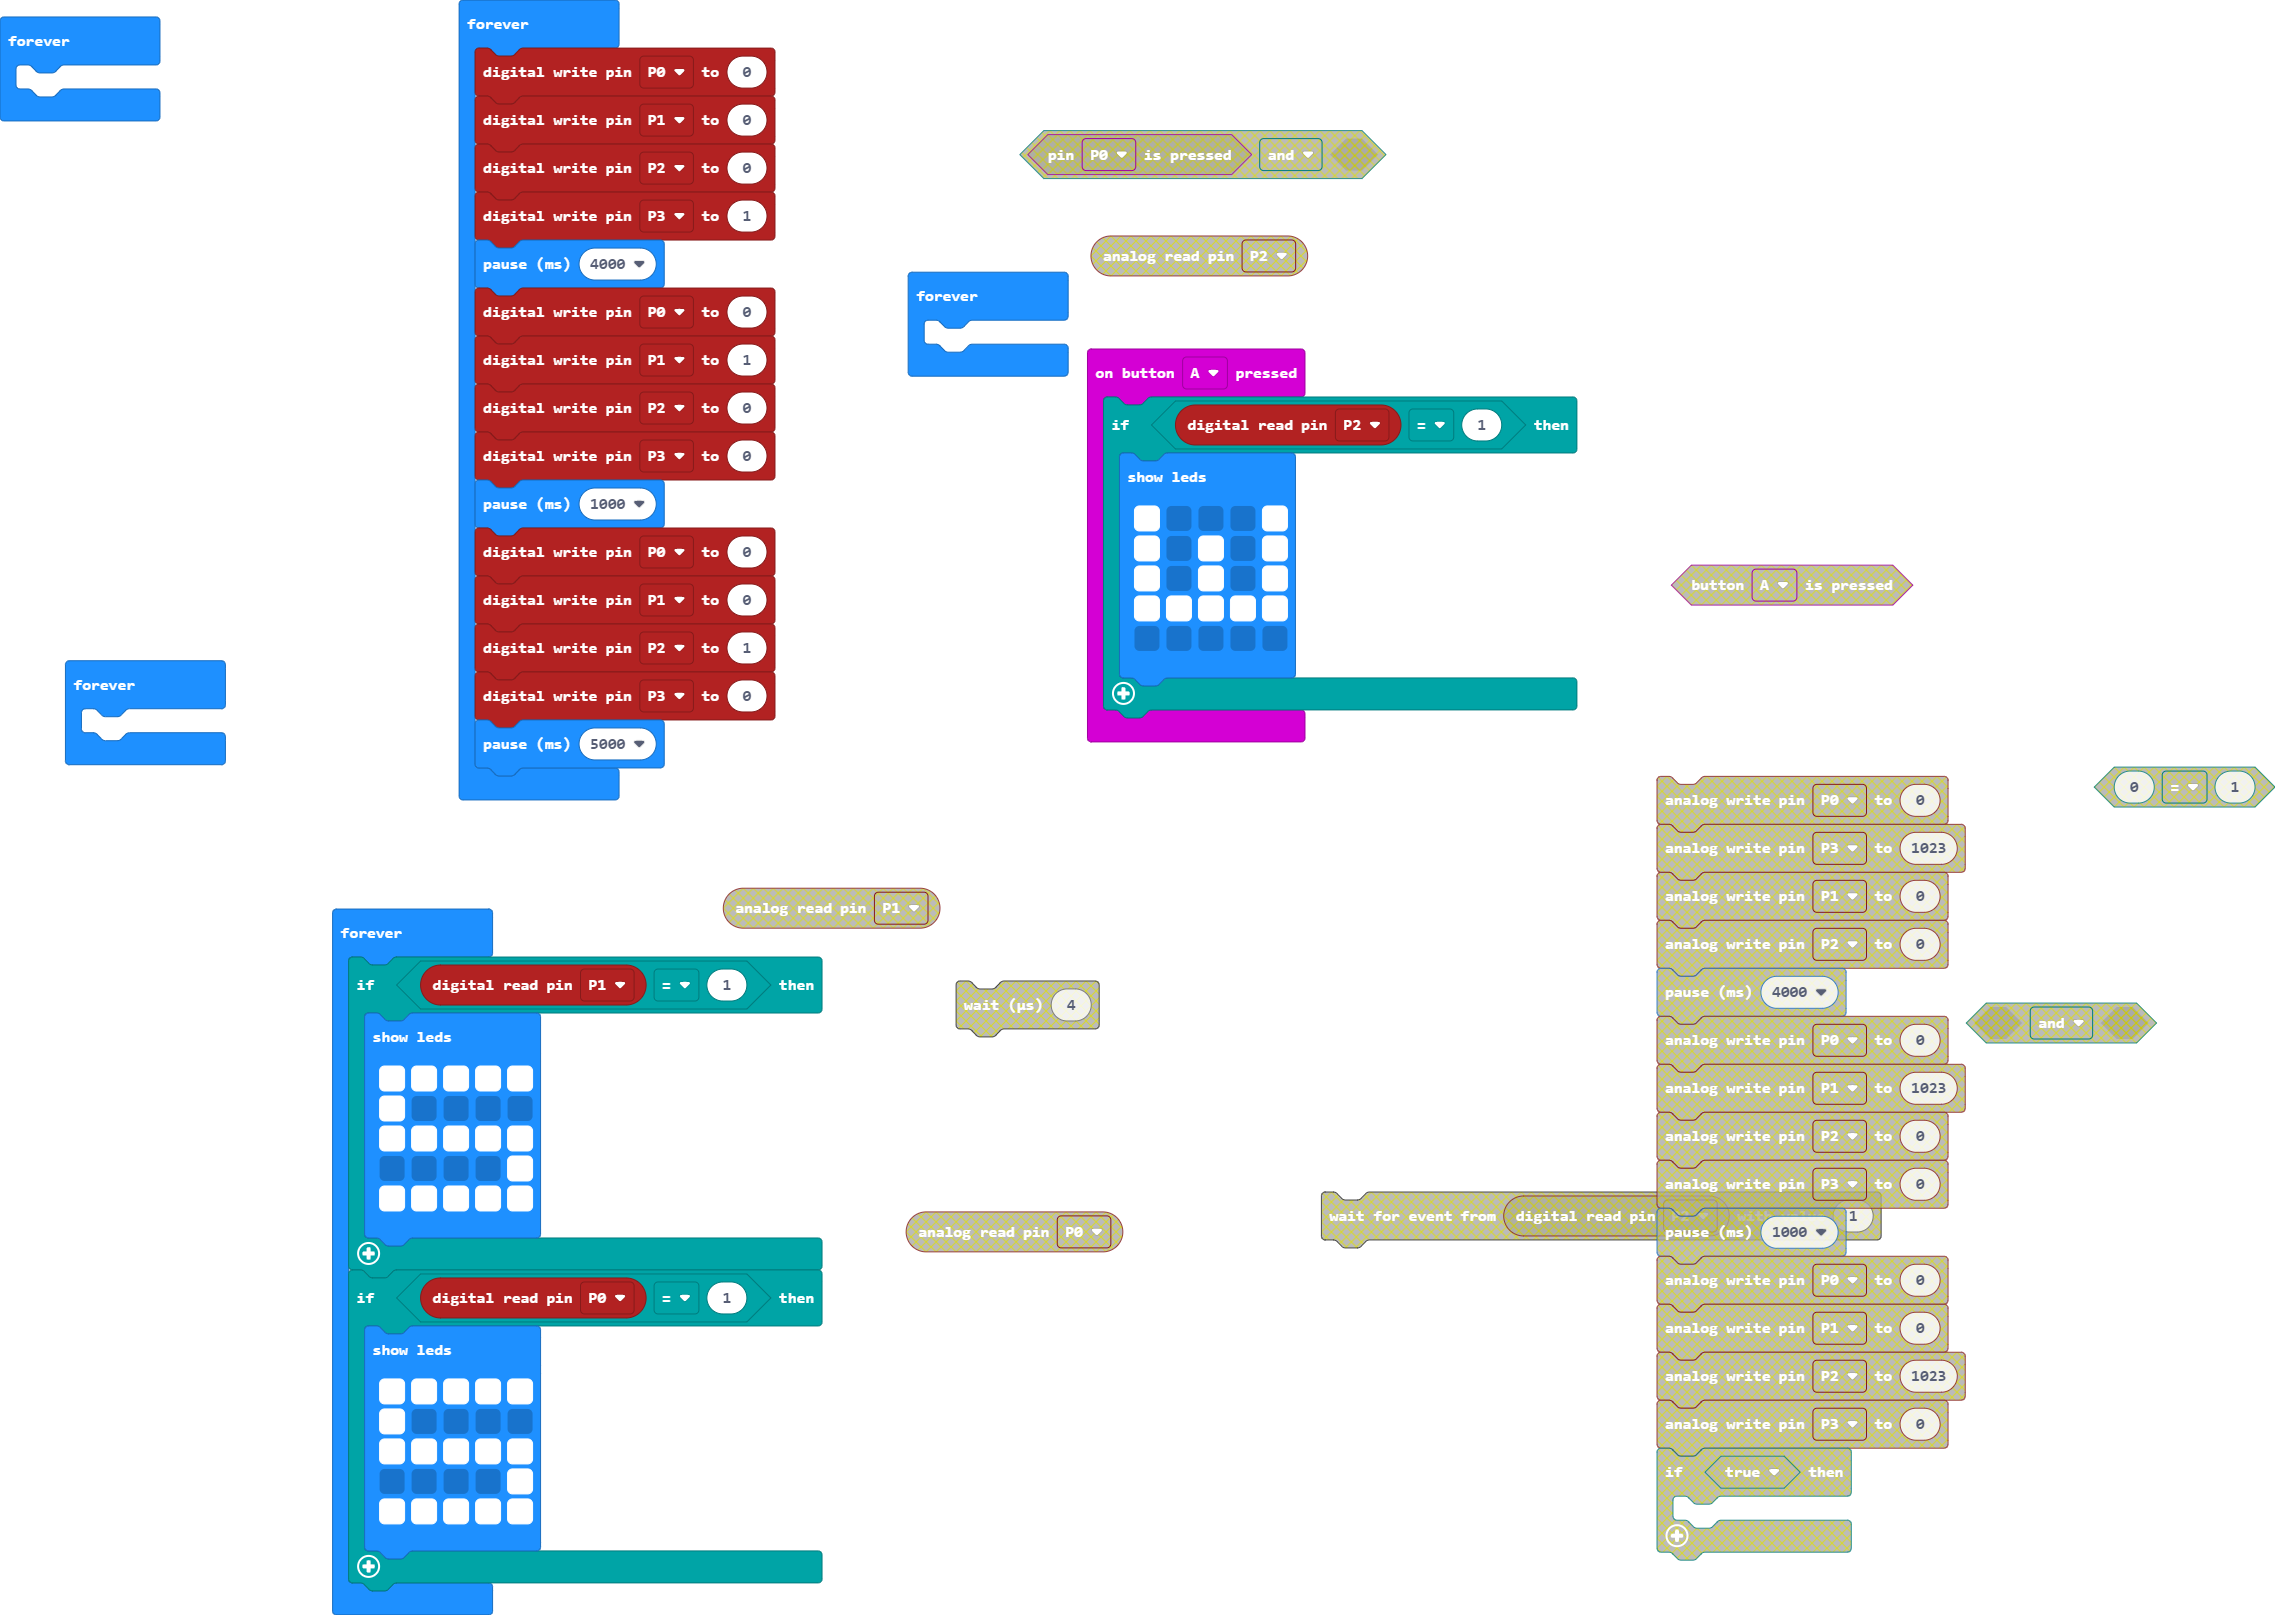
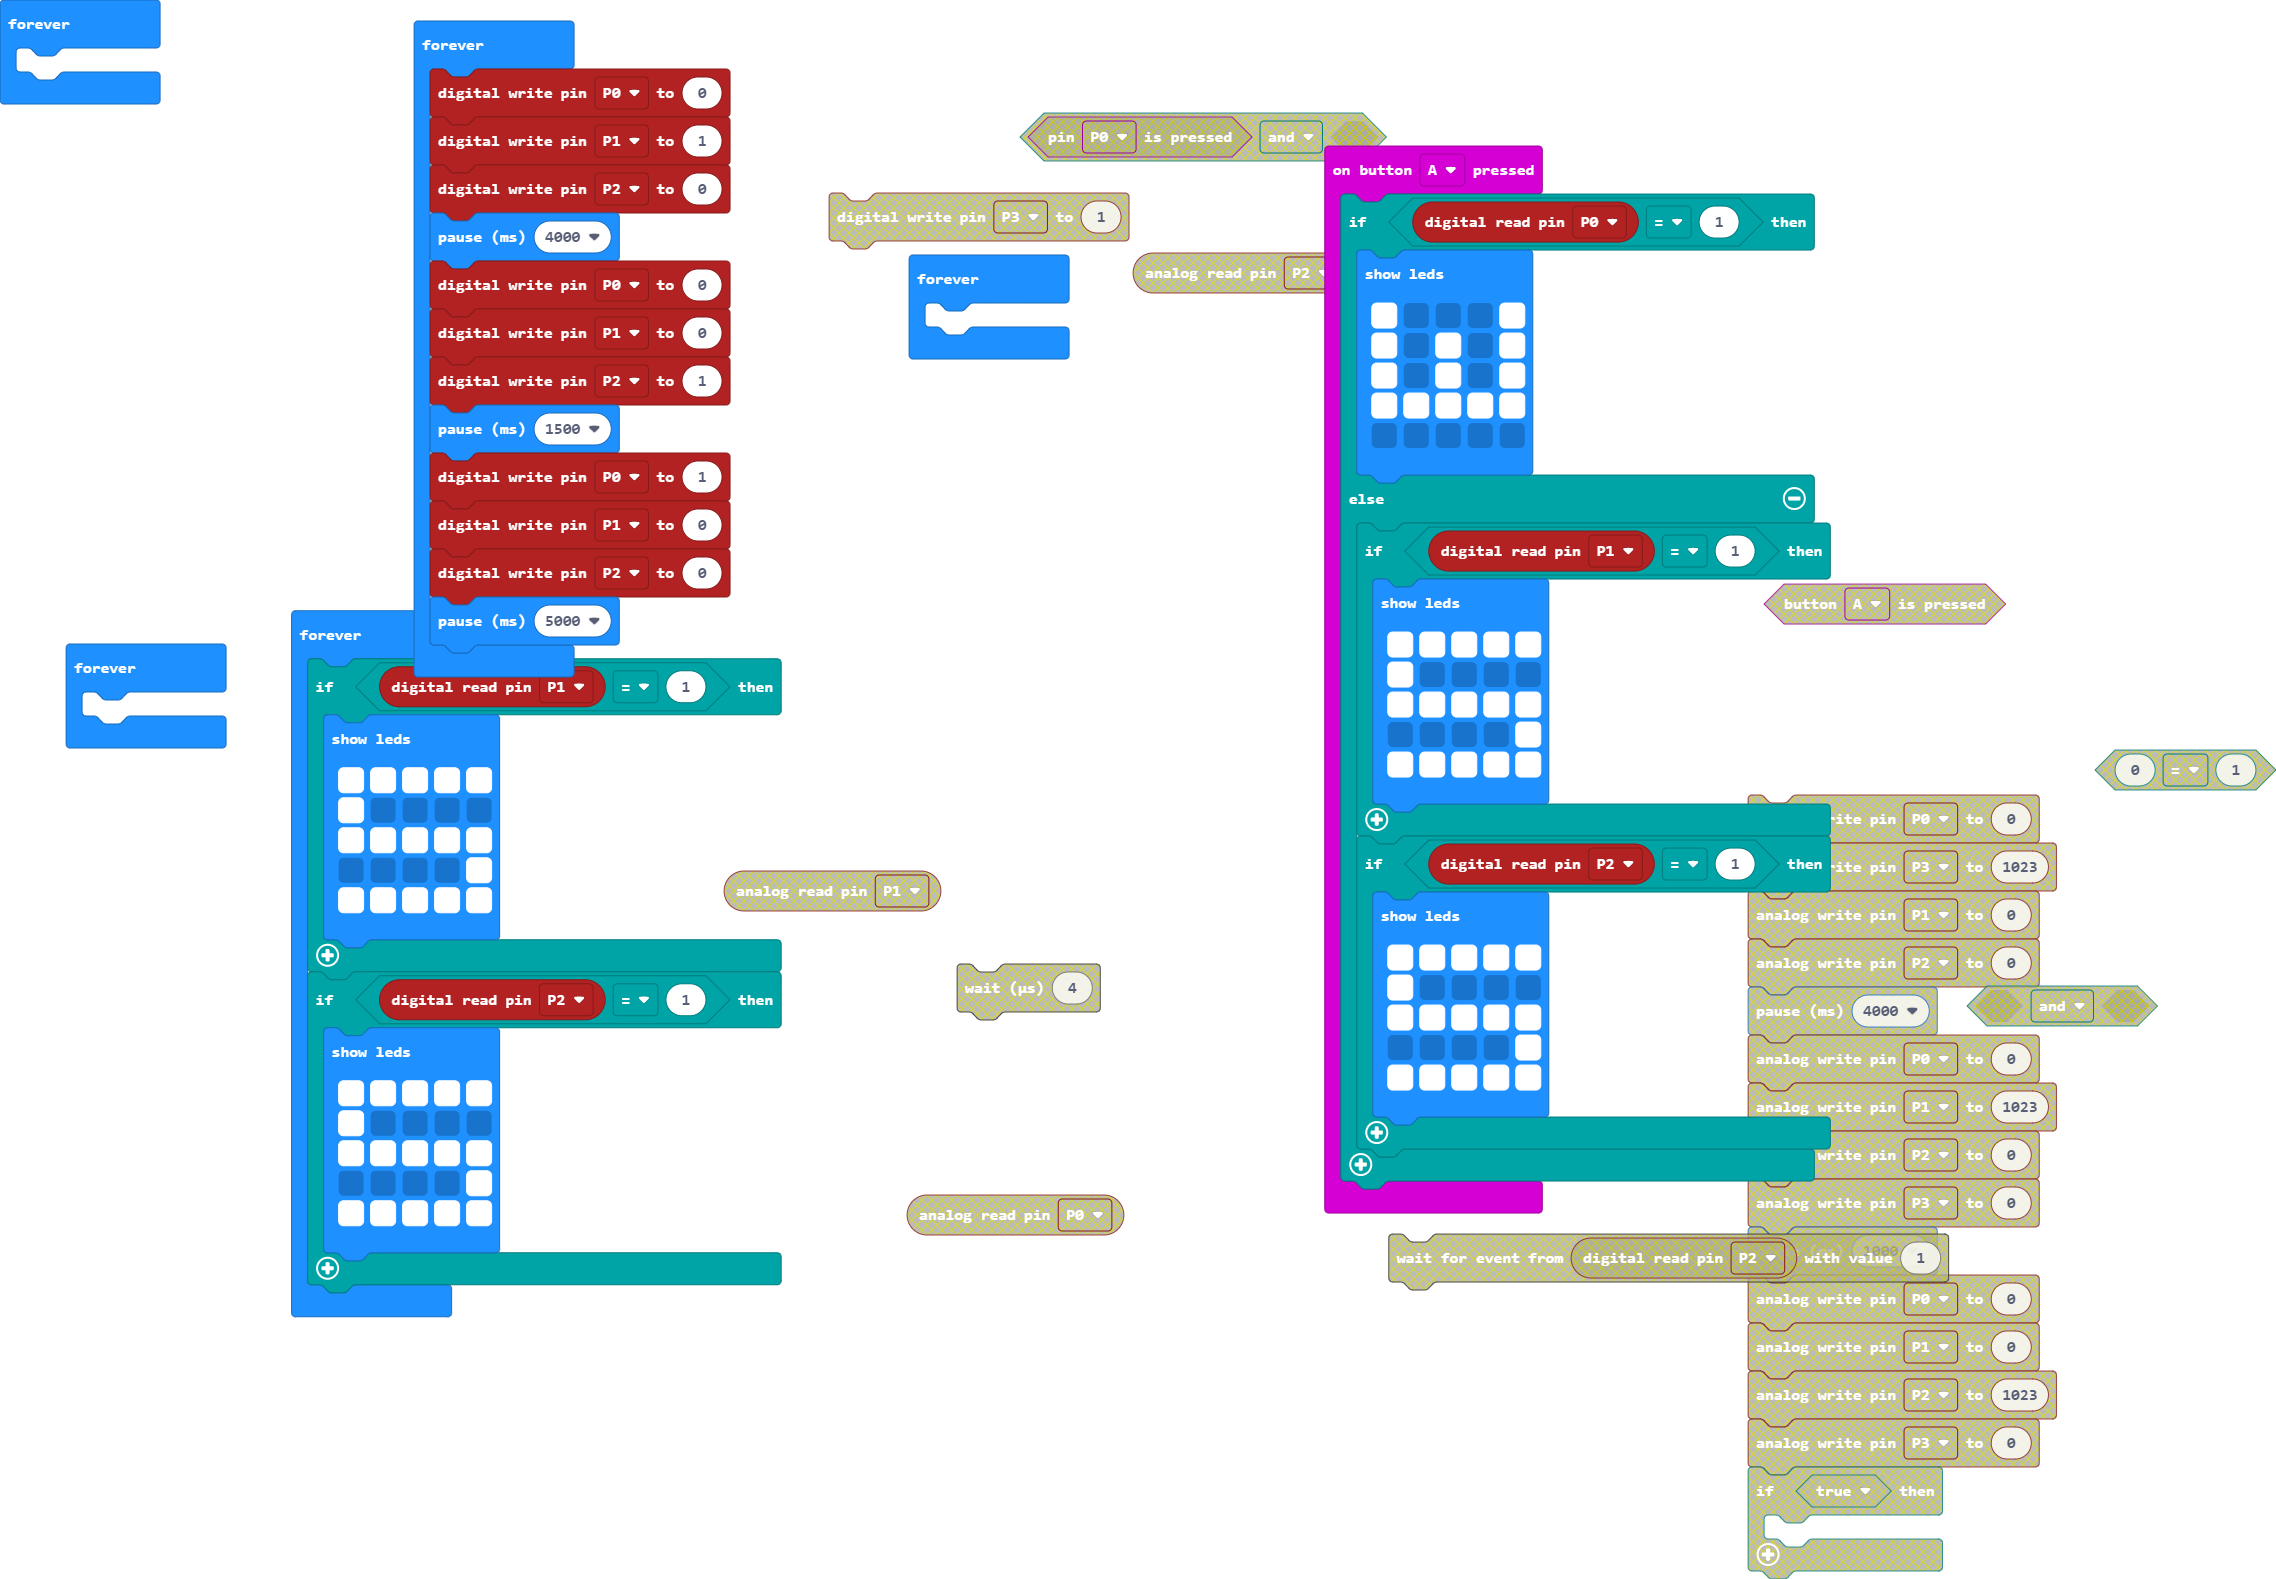
Update main.blocks, main.ts

diff --git a/main.ts b/main.ts
@@ -1,5 +1,5 @@
 input.onButtonPressed(Button.A, function () {
-    if (pins.digitalReadPin(DigitalPin.P2) == 1) {
+    if (pins.digitalReadPin(DigitalPin.P0) == 1) {
         basic.showLeds(`
             # . . . #
             # . # . #
@@ -7,6 +7,25 @@ input.onButtonPressed(Button.A, function () {
             # # # # #
             . . . . .
             `)
+    } else {
+        if (pins.digitalReadPin(DigitalPin.P1) == 1) {
+            basic.showLeds(`
+                # # # # #
+                # . . . .
+                # # # # #
+                . . . . #
+                # # # # #
+                `)
+        }
+        if (pins.digitalReadPin(DigitalPin.P2) == 1) {
+            basic.showLeds(`
+                # # # # #
+                # . . . .
+                # # # # #
+                . . . . #
+                # # # # #
+                `)
+        }
     }
 })
 basic.forever(function () {
@@ -14,23 +33,17 @@ basic.forever(function () {
 })
 basic.forever(function () {
     pins.digitalWritePin(DigitalPin.P0, 0)
-    pins.digitalWritePin(DigitalPin.P1, 0)
-    pins.digitalWritePin(DigitalPin.P2, 0)
-    pins.digitalWritePin(DigitalPin.P3, 1)
-    basic.pause(4000)
-    pins.digitalWritePin(DigitalPin.P0, 0)
     pins.digitalWritePin(DigitalPin.P1, 1)
     pins.digitalWritePin(DigitalPin.P2, 0)
-    pins.digitalWritePin(DigitalPin.P3, 0)
-    basic.pause(1000)
+    basic.pause(4000)
     pins.digitalWritePin(DigitalPin.P0, 0)
     pins.digitalWritePin(DigitalPin.P1, 0)
     pins.digitalWritePin(DigitalPin.P2, 1)
-    pins.digitalWritePin(DigitalPin.P3, 0)
+    basic.pause(1500)
+    pins.digitalWritePin(DigitalPin.P0, 1)
+    pins.digitalWritePin(DigitalPin.P1, 0)
+    pins.digitalWritePin(DigitalPin.P2, 0)
     basic.pause(5000)
-})
-basic.forever(function () {
-	
 })
 basic.forever(function () {
 	
@@ -45,7 +58,7 @@ basic.forever(function () {
             # # # # #
             `)
     }
-    if (pins.digitalReadPin(DigitalPin.P0) == 1) {
+    if (pins.digitalReadPin(DigitalPin.P2) == 1) {
         basic.showLeds(`
             # # # # #
             # . . . .
@@ -54,4 +67,7 @@ basic.forever(function () {
             # # # # #
             `)
     }
+})
+basic.forever(function () {
+	
 })
